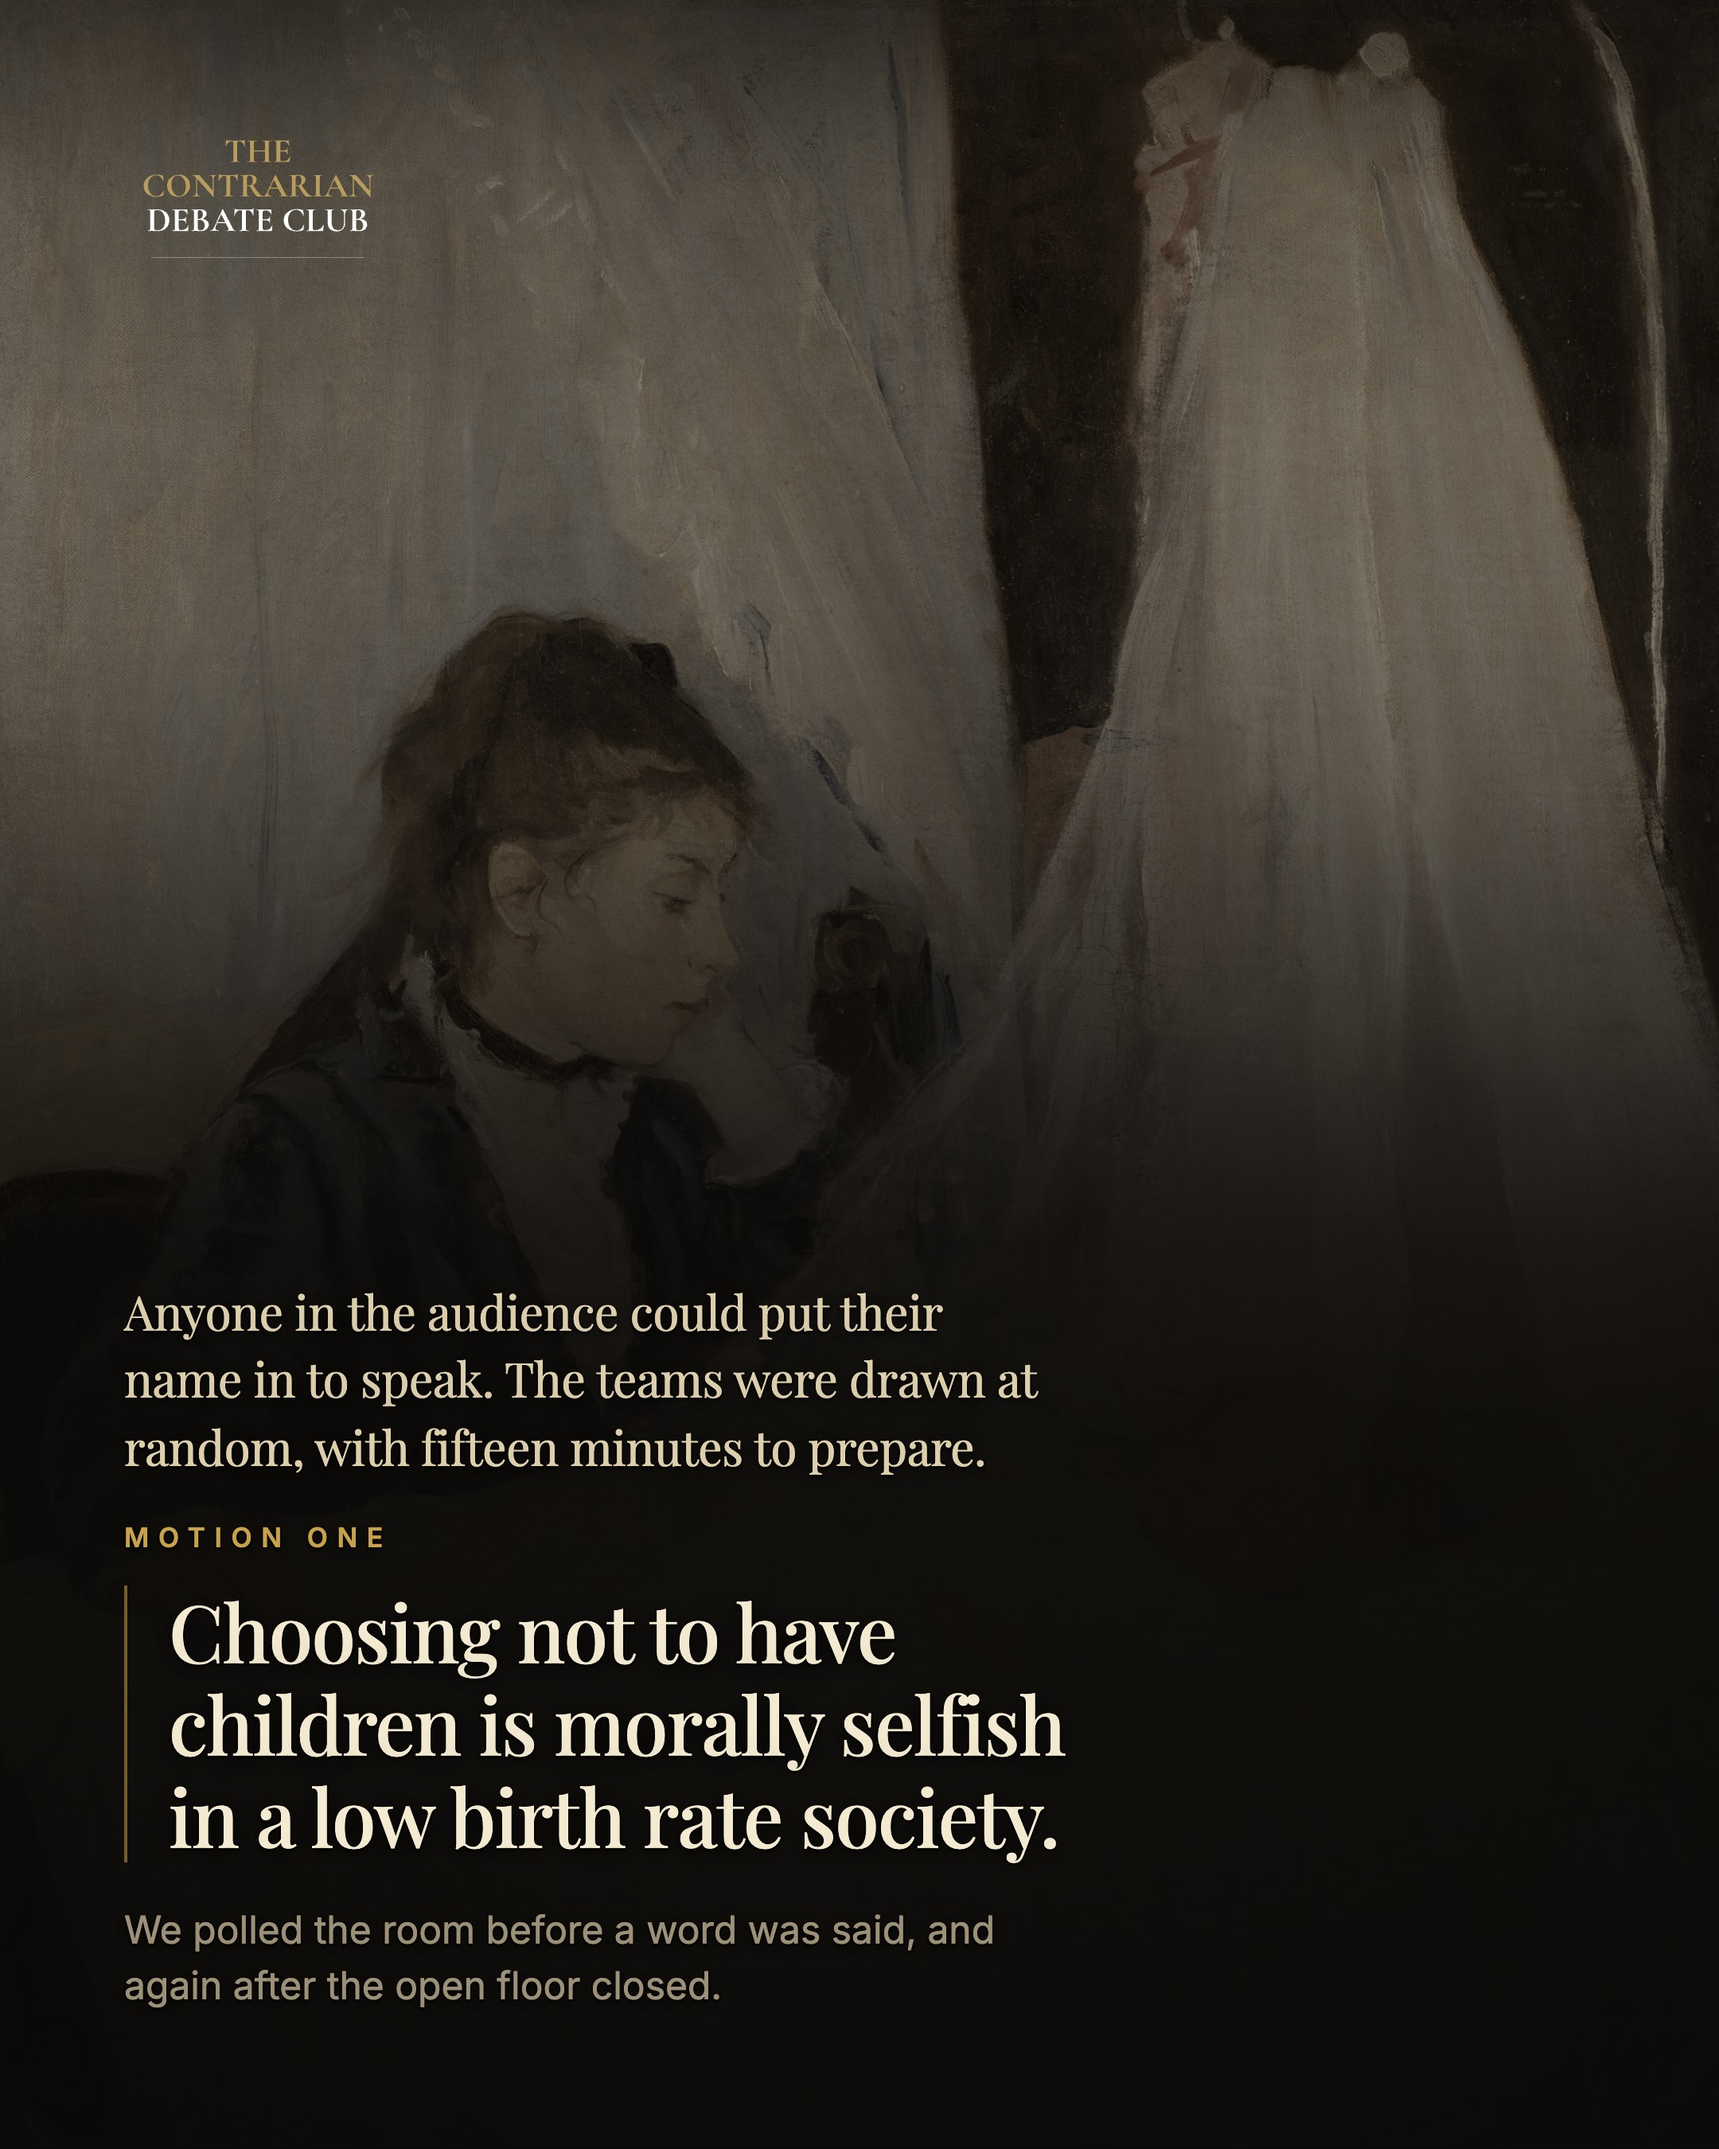
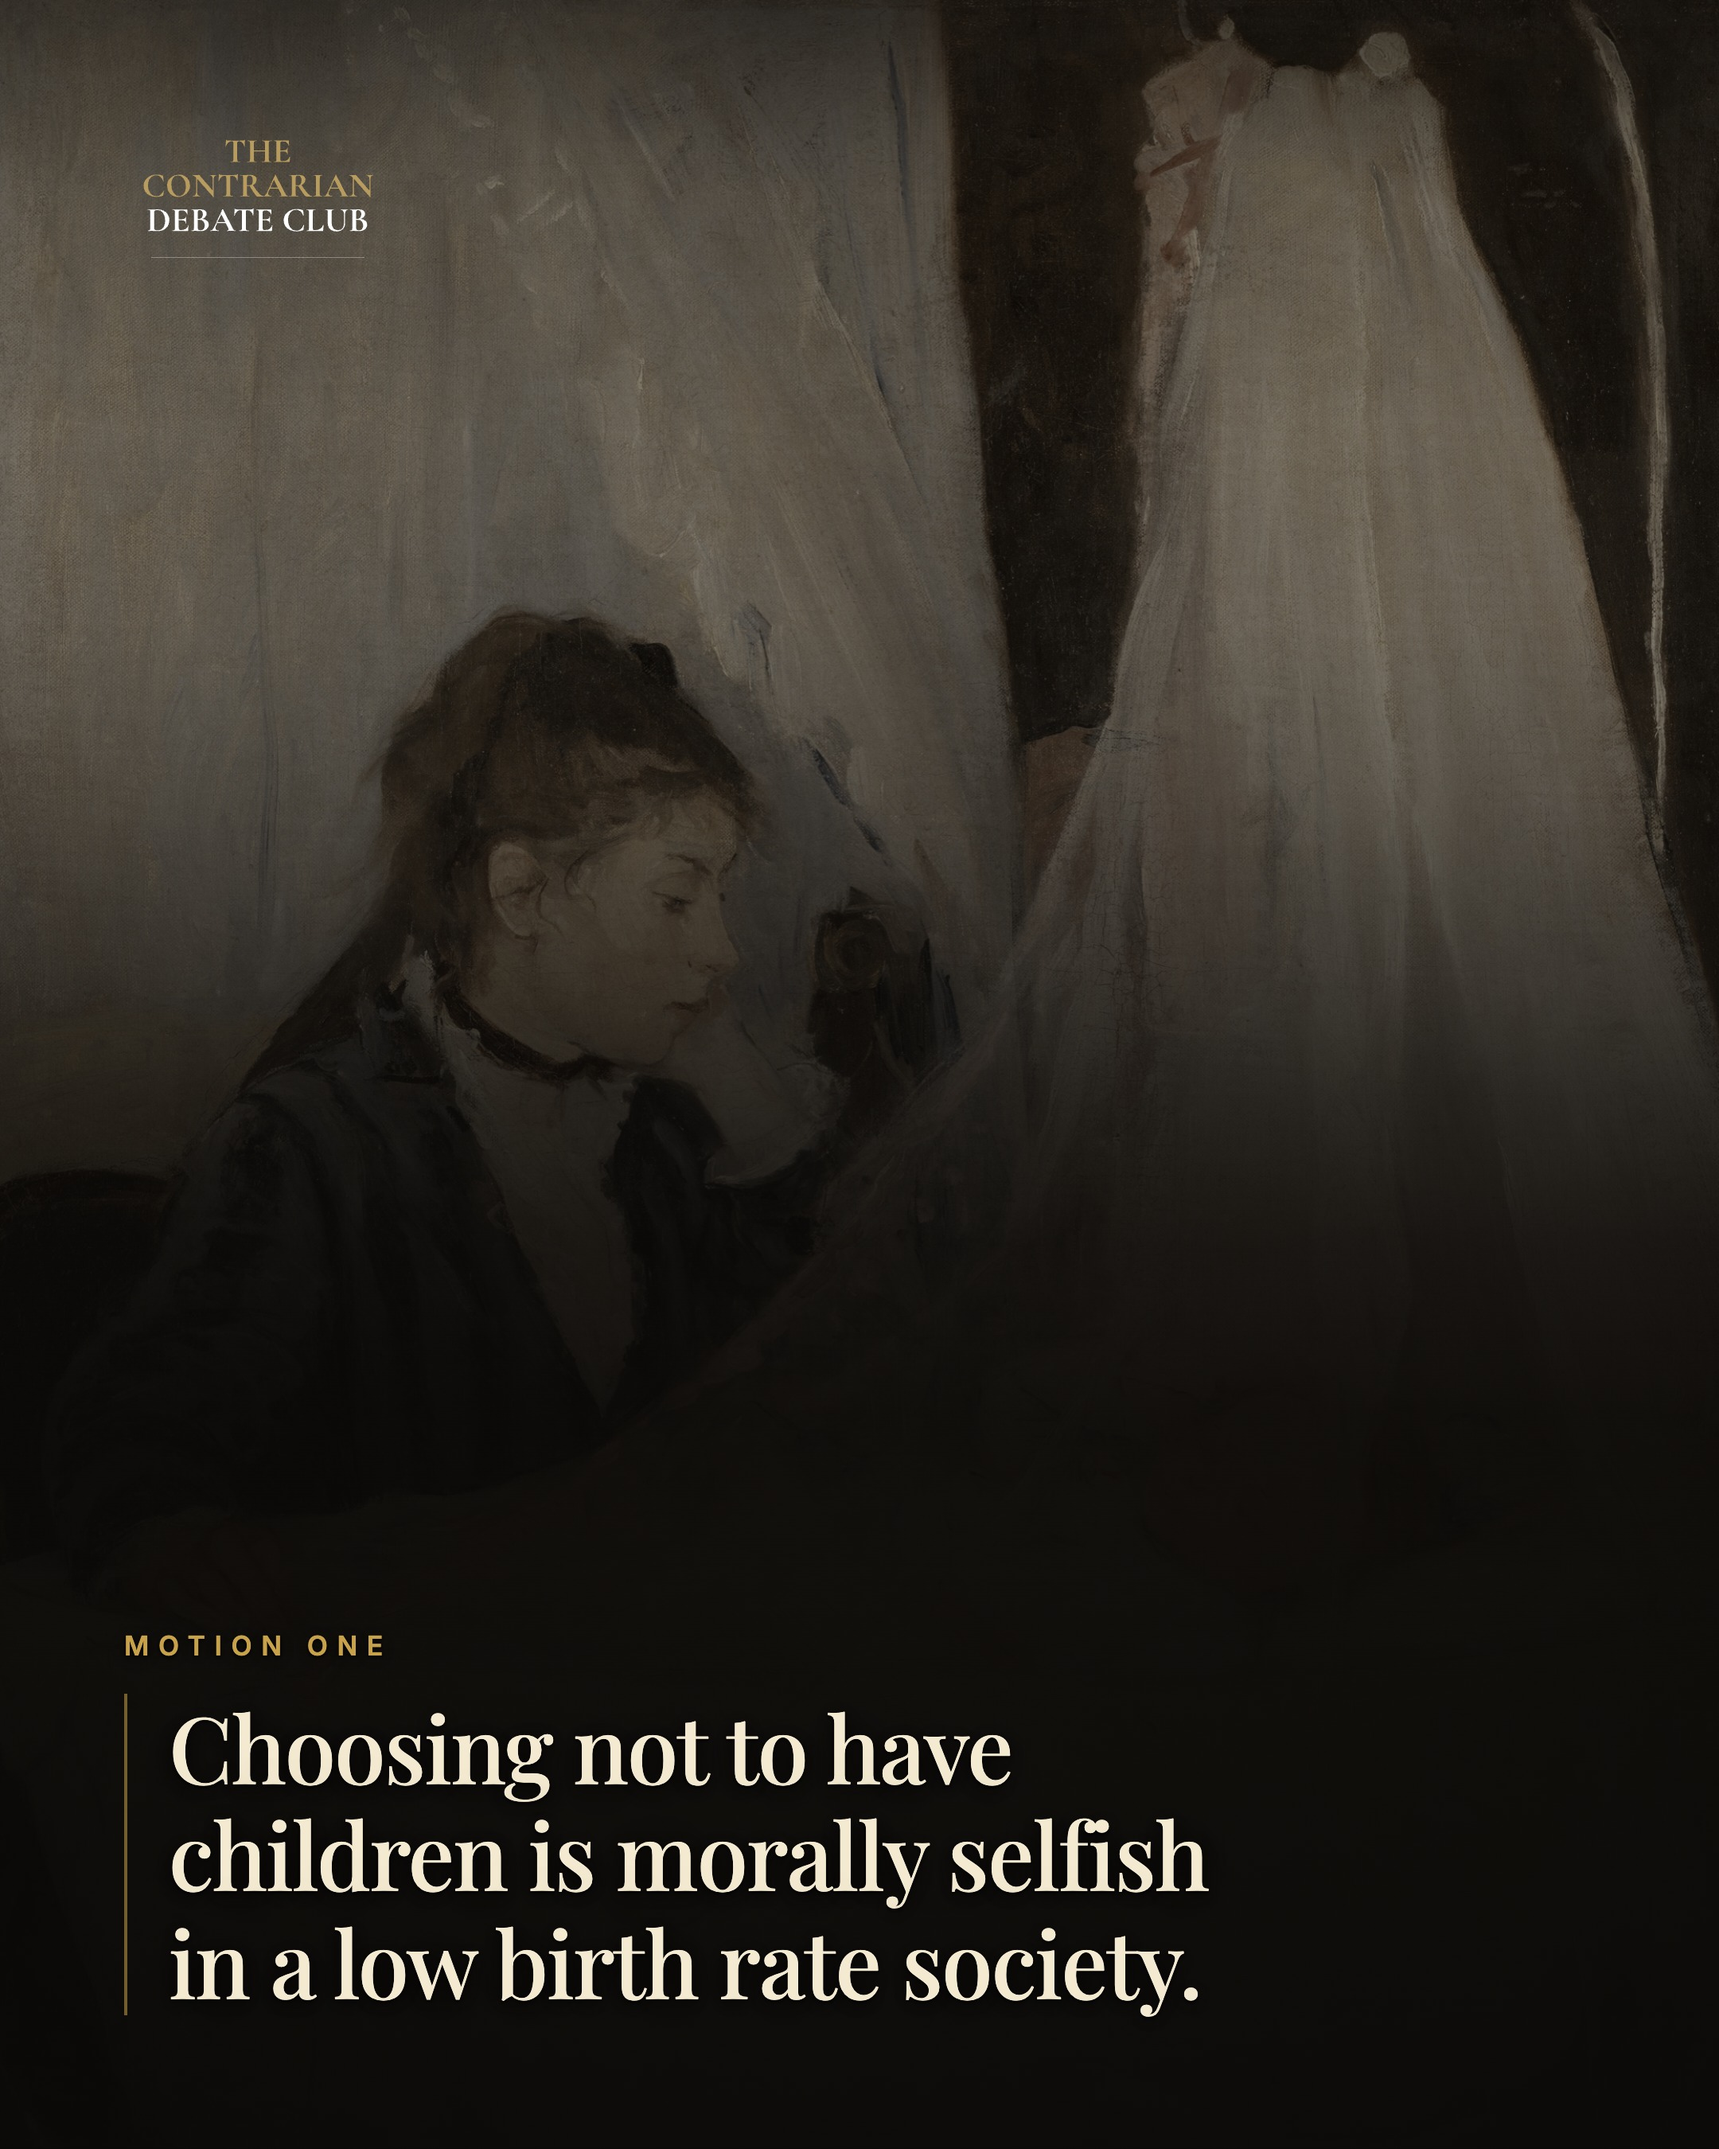
refactor: move how the night ran onto the cover
A cover that only named itself gave a scroller nothing to stop for, and
the mechanics belong to the whole evening rather than to the first motion.
Slide 2 now carries the motion alone, set larger.

Changed region(s): [[0.062, 0.7467, 0.7134, 0.9333], [0.062, 0.5911, 0.5894, 0.6844]]

diff --git a/posters/works/2026-08-09-debate-8-recap/slides.tsx b/posters/works/2026-08-09-debate-8-recap/slides.tsx
@@ -129,12 +129,18 @@ export function Cover({
   partner,
   title,
   subtitle,
+  context,
   swipeHint,
 }: {
   art: Art;
   partner: string;
   title: string;
   subtitle: string;
+  /** how the night ran. It sits here rather than on the first motion slide,
+   *  because a cover that only names itself gives a scroller no reason to
+   *  stop, and because these mechanics belong to the whole evening rather
+   *  than to one motion. */
+  context: string;
   swipeHint: string;
 }) {
   return (
@@ -192,6 +198,29 @@ export function Cover({
           >
             {subtitle}
           </p>
+
+          <span
+            style={{
+              width: 64,
+              height: 1,
+              background: "rgba(200,162,74,0.5)",
+              margin: "40px auto 36px",
+            }}
+          />
+
+          <p
+            style={{
+              fontFamily: "var(--cc-font-display)",
+              fontSize: 30,
+              lineHeight: 1.46,
+              letterSpacing: "-0.006em",
+              color: "var(--cc-parchment)",
+              margin: "0 auto",
+              maxWidth: "30ch",
+            }}
+          >
+            {context}
+          </p>
         </div>
 
         <span
@@ -229,12 +258,16 @@ export function Motion({
   kicker,
   intro,
   motion,
+  motionSize = 50,
   note,
 }: {
   art: Art;
   kicker: string;
-  intro: ReactNode;
+  /** only where this particular motion needs explaining. The mechanics of the
+   *  night live on the cover. */
+  intro?: ReactNode;
   motion: string;
+  motionSize?: number;
   note?: ReactNode;
 }) {
   return (
@@ -265,19 +298,21 @@ export function Motion({
             gap: 26,
           }}
         >
-          <p
-            style={{
-              fontFamily: "var(--cc-font-display)",
-              fontSize: 30,
-              lineHeight: 1.42,
-              letterSpacing: "-0.006em",
-              color: "var(--cc-parchment)",
-              margin: 0,
-              maxWidth: "32ch",
-            }}
-          >
-            {intro}
-          </p>
+          {intro && (
+            <p
+              style={{
+                fontFamily: "var(--cc-font-display)",
+                fontSize: 30,
+                lineHeight: 1.42,
+                letterSpacing: "-0.006em",
+                color: "var(--cc-parchment)",
+                margin: 0,
+                maxWidth: "32ch",
+              }}
+            >
+              {intro}
+            </p>
+          )}
 
           <div>
             <Kicker text={kicker} />
@@ -293,7 +328,7 @@ export function Motion({
                 style={{
                   fontFamily: "var(--cc-font-display)",
                   fontWeight: 500,
-                  fontSize: 50,
+                  fontSize: motionSize,
                   lineHeight: 1.16,
                   letterSpacing: "-0.016em",
                   color: "var(--cc-ivory)",

diff --git a/posters/works/2026-08-09-debate-8-recap/spec.tsx b/posters/works/2026-08-09-debate-8-recap/spec.tsx
@@ -50,22 +50,23 @@ const work: WorkSpec = {
           partner={basecamp}
           title="Debate #8"
           subtitle="recapped"
+          context="Anyone in the audience could put their name in to speak. Teams were drawn at random, with fifteen minutes to prepare. We polled the room before a word was said, and again after the open floor closed."
           swipeHint="Swipe for the results"
         />
       ),
     },
 
-    // 2. The first motion, and how it got its speakers.
+    // 2. The first motion, and nothing else. How the night ran moved to the
+    //    cover, where it gives a scroller a reason to stop.
     {
       label: "Motion one",
       hasImage: true,
       render: () => (
         <Motion
           art={{ src: cradle, treatment: "bright", position: "center 38%" }}
-          intro="Anyone in the audience could put their name in to speak. The teams were drawn at random, with fifteen minutes to prepare."
           kicker="Motion One"
           motion={MOTION_ONE}
-          note="We polled the room before a word was said, and again after the open floor closed."
+          motionSize={58}
         />
       ),
     },
